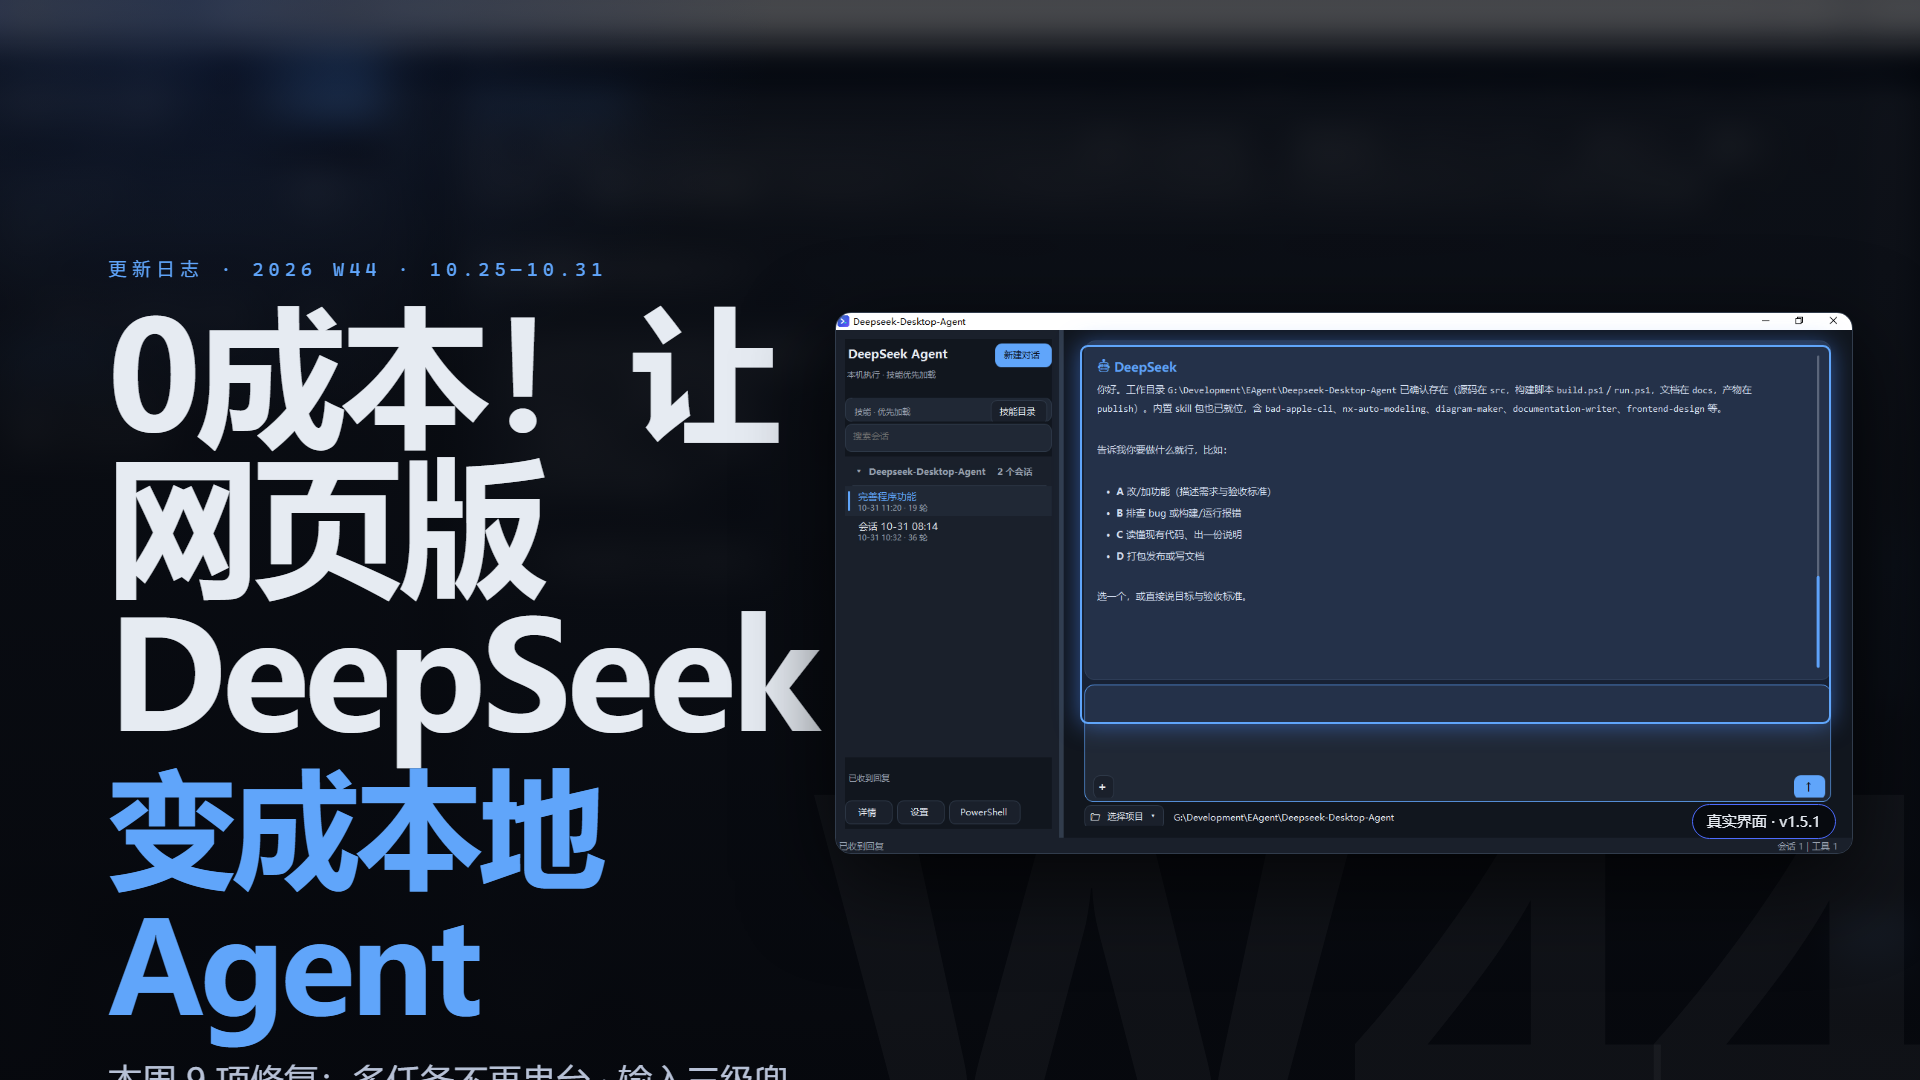
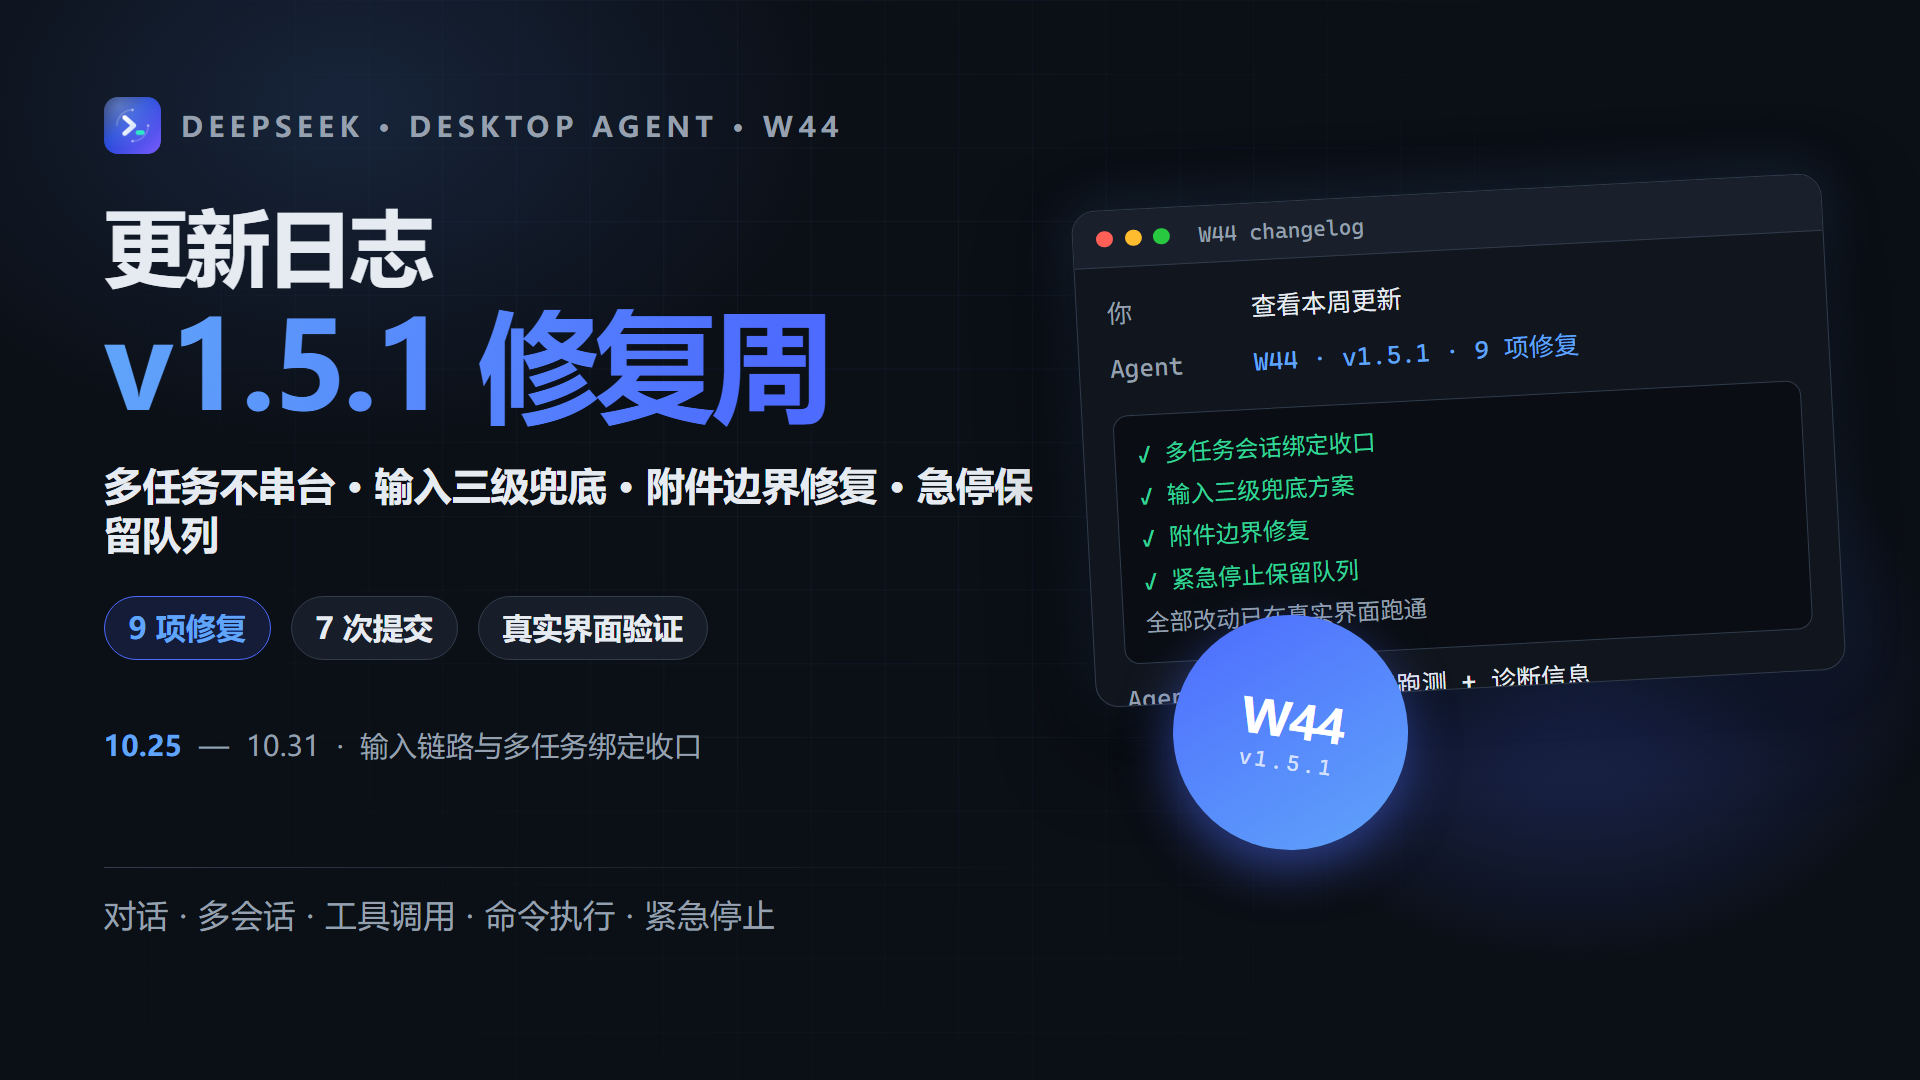
重做周报封面：复用爆款封面视觉系统（彩色渐变标题+终端卡片+W44贴纸）

diff --git a/Works/remotion-intro/src/WeeklyCover.tsx b/Works/remotion-intro/src/WeeklyCover.tsx
@@ -2,136 +2,215 @@ import React from "react";
 import { AbsoluteFill, Img, staticFile, useVideoConfig } from "remotion";
 import { C, FONT, MONO } from "./theme";
 
-/** 周报封面 · 16:9 / 4:3 自适应，使用真实运行截图 */
+/**
+ * 周报封面 · 16:9 / 4:3 自适应
+ * 复用 BilibiliCover 视觉系统：彩色渐变标题 + 终端卡片 + Chips + 光晕背景
+ * 主题：更新日志 W44（v1.5.1 修复周）
+ */
 export const WeeklyCover: React.FC = () => {
-  const { width, height } = useVideoConfig();
-  const u = width / 1920;
-  const textW = width * 0.36;
-  const shotW = width * 0.53;
-  const shotH = shotW * (728 / 1366);
-  const shotX = width - shotW - width * 0.035;
-  const shotY = (height - shotH) / 2 + height * 0.04;
-  const titleSize = Math.round(150 * u);
-  const marginX = Math.round(108 * u);
+  const { width: W, height: H } = useVideoConfig();
+  const u = W / 1146; // 字号缩放基准（与 BilibiliCover 一致）
+
+  const Chip: React.FC<{ children: React.ReactNode; accent?: boolean }> = ({ children, accent }) => (
+    <div
+      style={{
+        padding: `${7 * u}px ${14 * u}px`,
+        borderRadius: 999,
+        border: `1px solid ${accent ? C.accent2 : C.border}`,
+        background: accent ? "rgba(77,107,254,0.15)" : "rgba(26,32,43,0.9)",
+        color: accent ? C.accent : C.text,
+        fontSize: 18 * u,
+        fontWeight: 600,
+        whiteSpace: "nowrap",
+      }}
+    >
+      {children}
+    </div>
+  );
+
+  const Line: React.FC<{ who: string; text: string; color: string }> = ({ who, text, color }) => (
+    <div style={{ display: "flex", gap: 8 * u, fontSize: 15 * u, lineHeight: 1.6, fontFamily: MONO }}>
+      <span style={{ color: C.subtle, width: 78 * u, flexShrink: 0 }}>{who}</span>
+      <span style={{ color }}>{text}</span>
+    </div>
+  );
 
   return (
-    <AbsoluteFill style={{ backgroundColor: "#06080D", fontFamily: FONT }}>
-      <Img
-        src={staticFile("report/app-bg.png")}
-        style={{ width: "100%", height: "100%", objectFit: "cover", opacity: 0.45 }}
+    <AbsoluteFill style={{ backgroundColor: C.bg, fontFamily: FONT, overflow: "hidden" }}>
+      {/* 背景：与 BilibiliCover 同款 */}
+      <AbsoluteFill style={{ background: "radial-gradient(760px 520px at 18% 10%, #17243A 0%, #0B0F16 66%)" }} />
+      <AbsoluteFill
+        style={{
+          backgroundImage:
+            "linear-gradient(rgba(96,165,250,0.06) 1px, transparent 1px), linear-gradient(90deg, rgba(96,165,250,0.06) 1px, transparent 1px)",
+          backgroundSize: `${44 * u}px ${44 * u}px`,
+          maskImage: "radial-gradient(circle at 45% 40%, black 20%, transparent 80%)",
+          WebkitMaskImage: "radial-gradient(circle at 45% 40%, black 20%, transparent 80%)",
+        }}
       />
-      <AbsoluteFill style={{ background: "radial-gradient(900px 640px at 10% 0%, rgba(35,62,120,0.55), transparent 65%)" }} />
-      <AbsoluteFill style={{ background: "linear-gradient(180deg, rgba(6,8,13,0.35) 0%, rgba(6,8,13,0.96) 100%)" }} />
+      <AbsoluteFill
+        style={{ background: "radial-gradient(520px 420px at 82% 62%, rgba(77,107,254,0.32), transparent 70%)" }}
+      />
 
-      <div
-        style={{
-          position: "absolute",
-          right: -24 * u,
-          bottom: -170 * u,
-          fontSize: 520 * u,
-          fontWeight: 800,
-          letterSpacing: -22 * u,
-          lineHeight: 1,
-          color: "rgba(255,255,255,0.04)",
-        }}
-      >
-        W44
-      </div>
-
-      <div style={{ position: "absolute", left: marginX, top: height * 0.235, width: textW }}>
-        <div style={{ fontFamily: MONO, fontSize: 19 * u, color: C.accent, letterSpacing: 5 * u }}>
-          更新日志 · 2026 W44 · 10.25—10.31
+      {/* 左：更新日志文案区 */}
+      <div style={{ position: "absolute", left: 0.054 * W, top: 0.09 * H, width: 0.5 * W }}>
+        <div style={{ display: "flex", alignItems: "center", gap: 12 * u }}>
+          <Img src={staticFile("icon.png")} style={{ width: 34 * u, height: 34 * u, borderRadius: 8 * u }} />
+          <span style={{ fontSize: 17 * u, letterSpacing: 3 * u, color: C.subtle, fontWeight: 700 }}>
+            DEEPSEEK · DESKTOP AGENT · W44
+          </span>
         </div>
+
         <div
           style={{
-            marginTop: 18 * u,
-            fontSize: titleSize,
+            marginTop: 26 * u,
+            fontSize: 50 * u,
             fontWeight: 800,
-            letterSpacing: -5 * u,
-            lineHeight: 1,
             color: C.text,
+            lineHeight: 1.15,
+            letterSpacing: -1 * u,
           }}
         >
-          0成本！让网页版DeepSeek
+          更新日志
         </div>
         <div
           style={{
-            marginTop: 8 * u,
-            fontSize: titleSize * 0.85,
+            marginTop: 4 * u,
+            fontSize: 72 * u,
             fontWeight: 800,
-            letterSpacing: -4 * u,
-            lineHeight: 1.1,
-            color: C.accent,
+            lineHeight: 1.05,
+            letterSpacing: -2 * u,
+            background: `linear-gradient(100deg, ${C.accent} 0%, ${C.accent2} 70%)`,
+            WebkitBackgroundClip: "text",
+            WebkitTextFillColor: "transparent",
           }}
         >
-          变成本地Agent
+          v1.5.1 修复周
         </div>
-        <div style={{ marginTop: 20 * u, fontSize: 34 * u, color: "#B7C1D6", lineHeight: 1.4 }}>
-          本周 9 项修复：多任务不再串台 · 输入三级兜底 · 附件边界修复
+
+        <div style={{ marginTop: 20 * u, fontSize: 23 * u, color: C.text, fontWeight: 600 }}>
+          多任务不串台 · 输入三级兜底 · 附件边界修复 · 急停保留队列
         </div>
-        <div style={{ marginTop: 26 * u, display: "flex", flexWrap: "wrap", gap: 12 * u }}>
-          {["7 次提交", "9 项修复", "v1.5.1"].map((t) => (
-            <span
-              key={t}
-              style={{
-                padding: `${9 * u}px ${16 * u}px`,
-                borderRadius: 999,
-                border: `1px solid ${C.border}`,
-                background: "rgba(255,255,255,0.05)",
-                fontSize: 20 * u,
-                color: C.text,
-              }}
-            >
-              {t}
-            </span>
-          ))}
+
+        <div style={{ marginTop: 22 * u, display: "flex", gap: 12 * u, flexWrap: "wrap" }}>
+          <Chip accent>9 项修复</Chip>
+          <Chip>7 次提交</Chip>
+          <Chip>真实界面验证</Chip>
         </div>
-        <div style={{ marginTop: 22 * u, fontFamily: MONO, fontSize: 17 * u, color: C.subtle, letterSpacing: 1 }}>
-          10.25 — 10.31 · 全部真实运行界面
+
+        <div
+          style={{
+            marginTop: 40 * u,
+            display: "flex",
+            alignItems: "center",
+            gap: 10 * u,
+            color: C.subtle,
+            fontSize: 17 * u,
+          }}
+        >
+          <span style={{ color: C.accent, fontWeight: 800 }}>10.25</span>
+          <span>—</span>
+          <span>10.31</span>
+          <span>·</span>
+          <span>输入链路与多任务绑定收口</span>
+        </div>
+
+        <div style={{ marginTop: 62 * u }}>
+          <div style={{ height: 1, background: `linear-gradient(90deg, ${C.border}, transparent)` }} />
+          <div style={{ marginTop: 16 * u, fontSize: 19 * u, color: C.subtle, letterSpacing: 0.5 * u }}>
+            对话 · 多会话 · 工具调用 · 命令执行 · 紧急停止
+          </div>
         </div>
       </div>
 
+      {/* 右：终端卡片（更新日志摘要） */}
       <div
         style={{
           position: "absolute",
-          left: shotX,
-          top: shotY,
-          width: shotW,
-          height: shotH,
-          borderRadius: 16 * u,
-          overflow: "hidden",
+          left: 0.564 * W,
+          top: 0.178 * H,
+          width: 0.391 * W,
+          height: 0.46 * H,
+          borderRadius: 14 * u,
+          background: C.bg2,
           border: `1px solid ${C.border}`,
-          boxShadow: "0 30px 90px rgba(0,0,0,0.7)",
+          boxShadow: "0 34px 90px rgba(0,0,0,0.65), 0 0 60px rgba(96,165,250,0.18)",
+          transform: "rotate(-3deg)",
+          overflow: "hidden",
         }}
       >
-        <Img src={staticFile("report/app.png")} style={{ width: "100%", height: "100%", objectFit: "cover" }} />
         <div
           style={{
-            position: "absolute",
-            left: "24%",
-            top: "6%",
-            width: "74%",
-            height: "70%",
-            border: `${2 * u}px solid ${C.accent}`,
-            borderRadius: 8 * u,
-            background: "rgba(77,141,255,0.10)",
-            boxShadow: `0 0 ${24 * u}px rgba(77,141,255,0.55)`,
-          }}
-        />
-        <div
-          style={{
-            position: "absolute",
-            right: 16 * u,
-            bottom: 14 * u,
-            padding: `${7 * u}px ${14 * u}px`,
-            borderRadius: 999,
-            background: "rgba(6,8,13,0.84)",
-            border: `1px solid ${C.accent2}`,
-            fontSize: 15 * u,
-            color: C.text,
+            height: 0.053 * H,
+            background: C.surface,
+            borderBottom: `1px solid ${C.border}`,
+            display: "flex",
+            alignItems: "center",
+            padding: `0 ${14 * u}px`,
+            gap: 7 * u,
           }}
         >
-          真实界面 · v1.5.1
+          {["#FF5F57", "#FEBC2E", "#28C840"].map((c) => (
+            <div key={c} style={{ width: 10 * u, height: 10 * u, borderRadius: 5 * u, background: c }} />
+          ))}
+          <div style={{ marginLeft: 10 * u, fontSize: 13 * u, color: C.subtle, fontFamily: MONO }}>
+            W44 changelog
+          </div>
+        </div>
+        <div
+          style={{
+            padding: `${16 * u}px ${18 * u}px`,
+            display: "flex",
+            flexDirection: "column",
+            gap: 9 * u,
+          }}
+        >
+          <Line who="你" text="查看本周更新" color={C.text} />
+          <Line who="Agent" text="W44 · v1.5.1 · 9 项修复" color={C.accent} />
+          <div
+            style={{
+              marginTop: 6 * u,
+              padding: `${11 * u}px ${13 * u}px`,
+              borderRadius: 9 * u,
+              background: "#0A0E14",
+              border: `1px solid ${C.border}`,
+              fontFamily: MONO,
+              fontSize: 14 * u,
+              lineHeight: 1.8,
+              color: C.text,
+            }}
+          >
+            <div style={{ color: C.ok }}>✓ 多任务会话绑定收口</div>
+            <div style={{ color: C.ok }}>✓ 输入三级兜底方案</div>
+            <div style={{ color: C.ok }}>✓ 附件边界修复</div>
+            <div style={{ color: C.ok }}>✓ 紧急停止保留队列</div>
+            <div style={{ color: C.subtle }}>全部改动已在真实界面跑通</div>
+          </div>
+          <Line who="Agent" text="下周：连续跑测 + 诊断信息" color={C.text} />
+        </div>
+      </div>
+
+      {/* W44 贴纸 */}
+      <div
+        style={{
+          position: "absolute",
+          left: 0.611 * W,
+          top: 0.569 * H,
+          width: 0.218 * H,
+          height: 0.218 * H,
+          borderRadius: "50%",
+          background: `linear-gradient(140deg, ${C.accent2}, ${C.accent})`,
+          boxShadow: "0 18px 50px rgba(77,107,254,0.5)",
+          display: "flex",
+          flexDirection: "column",
+          alignItems: "center",
+          justifyContent: "center",
+          transform: "rotate(8deg)",
+        }}
+      >
+        <div style={{ fontSize: 28 * u, fontWeight: 800, color: "#fff", letterSpacing: -1 * u }}>W44</div>
+        <div style={{ fontSize: 13 * u, color: "rgba(255,255,255,0.75)", fontFamily: MONO, letterSpacing: 2 * u }}>
+          v1.5.1
         </div>
       </div>
     </AbsoluteFill>
